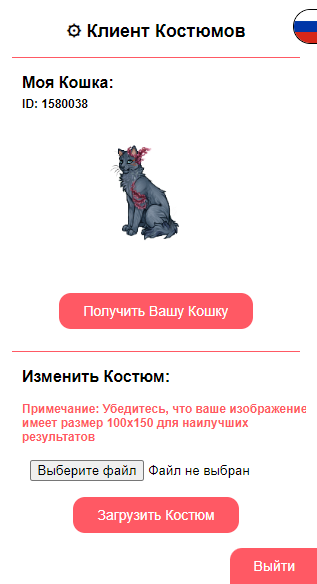
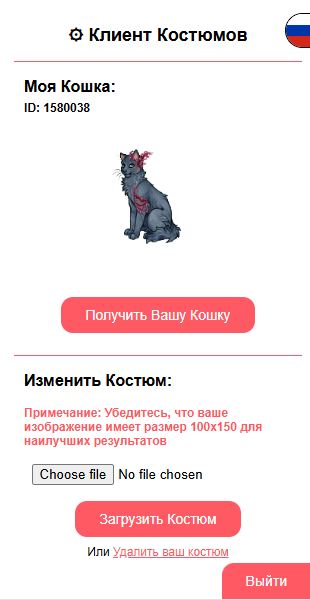
Update of ReadMe's and Images

Changed region(s): [[0.0, 0.4932, 1.0, 1.0], [0.0581, 0.0, 1.0, 0.1849], [0.3484, 0.2466, 0.5806, 0.4315]]

diff --git a/README.md b/README.md
@@ -73,11 +73,21 @@
 
 Если вы не видите аватарку вашей кошки на экране загрузки, вы можете нажать кнопку **"Получить вашу кошку"**, чтобы получить аватарку вашей кошки (это используется в основном для того, чтобы вы могли увидеть, как ваш костюм будет выглядеть на вашей кошке).
 
+#
+
 Чтобы загрузить костюм, нажмите "Выбрать файл" и выберите изображение вашего костюма (мы рекомендуем использовать изображение размером 100x150 для наилучших результатов).
 
 Ниже вы увидите кнопку **"Загрузить костюм"**, нажмите на нее, чтобы загрузить ваш костюм!
 
 После загрузки костюма вы сможете увидеть его в игре! (Если вы его не видите, попробуйте обновить страницу).
+
+#
+
+Вы можете удалить свой костюм, нажав на текст **"Удалить ваш костюм"** под кнопкой **"Загрузить костюм"**.
+
+Это удалит ваш костюм из игры, и вы сможете загрузить новый.
+
+#
 
 В любое время вы можете нажать кнопку **"Выйти"**, чтобы выйти из мода, если это необходимо.
 

diff --git a/READMEs/README_EN.md b/READMEs/README_EN.md
@@ -76,11 +76,22 @@ Once you have done that you will be able to upload your costume!
 
 If you don't see your cat's avatar in the upload screen, you can click on the **"Fetch Your Cat"** button to get your cat's avatar (This is used mostly for you to see how your costume will look on your cat)
 
+#
+
 To upload a costume you should click on "Choose File" and select the image of your costume (We recommend using a 100x150 image for the best results)
 
 Below you can see the **"Upload Costume"** button, click on it to upload your costume! 
 
 Once you have uploaded your costume you will be able to see it in the game! (If you don't see it, try refreshing the page)
+
+
+#
+
+You can remove your costume by clicking on the **"Remove your Costume"** text below the **"Upload Costume"** button.
+
+This will remove your costume from the game and you will be able to upload a new one.
+
+#
 
 At any time you can click on the **"Logout"** button to log out of the mod if you need to do so.
 
